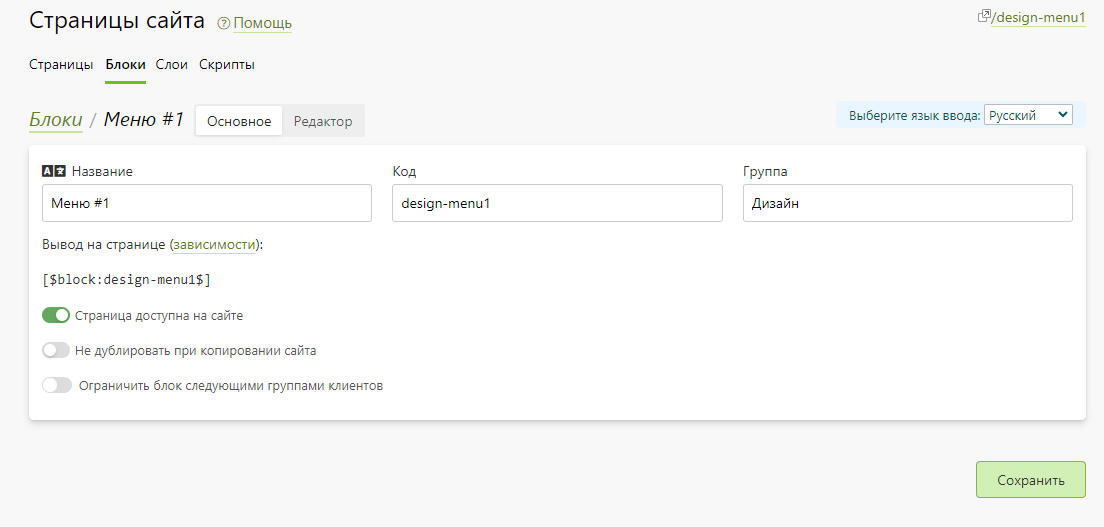
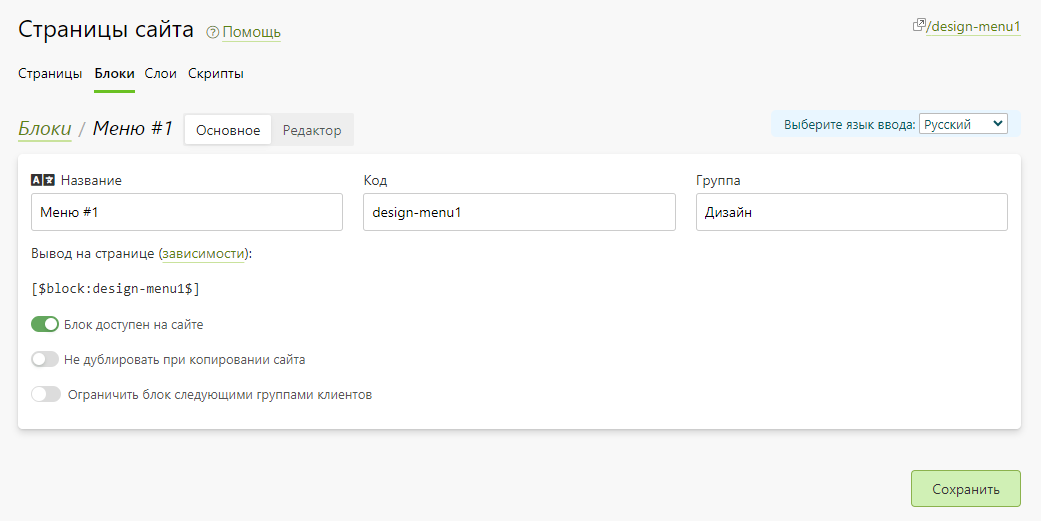
blocks+layers

diff --git a/docs/cms/pages.md b/docs/cms/pages.md
@@ -1,7 +1,15 @@
 # Страницы сайта
 
-## Список страниц
-* 
+* Страница - это страница сайта, доступная по уникальному адресу. Для одной страницы может быть создано несколько локализаций.
+
+* __Содержание__
+    + [Список страниц](/cms/pages?id=Список-страниц)
+    + [Основная информация страницы](/cms/pages?id=Основная-информация-страницы)
+    + [Хлебные крошки](/cms/pages?id=Хлебные-крошки)
+    + [Метаинформация](/cms/pages?id=Метаинформация)
+    + [Редактор страницы](/cms/pages?id=Редактор-страницы) 
+
+### Список страниц
 * В данном разделе представлен список всех страниц сайта, сгруппированных в папки по уникальным адресам.
 * Также в этом разделе можно:
     + Добавить новую страницу.
@@ -11,18 +19,8 @@
     + Удалить выделенные страницы.
 * ![](../_media/cms/pages.png)
 
-## Карточка страницы
-* __Содержание__
-    + [Основная информация](/cms/pages?id=Основная-информация)
-    + [Хлебные крошки](/cms/pages?id=Хлебные-крошки)
-    + [Метаинформация](/cms/pages?id=Метаинформация)
-    + [Редактор страницы](/cms/pages?id=Редактор-страницы) 
-
-### Основная информация
-* Страница - это страница сайта, доступная по уникальному адресу.
-* Для одной страницы может быть создано несколько локализаций.
+### Основная информация страницы
 ![](../_media/cms/page-general.png)
-
 * Ниже перечислены основные параметры страницы.
 * __Название__ - название страницы в панели управления, которое в том числе используется в качестве заголовка `H1`, если его нет в содержимом страницы и не задано поле "Заголовок".
 * __Тип контента__ - тип содержимого страницы, который указывается в ответе сервера в заголовке "content-type".
@@ -56,18 +54,23 @@
 ![](../_media/cms/cms04.png)
 
 ### Редактор страницы
-* Страница формируется из элементов - секций. По умолчанию содержимое задается в виде HTML-разметки, которая также может содержать стили и скрипты.
-* Добавить новый контент или изменить существующий можно во вкладке "Редактор".
+* Страница формируется из элементов - секций. По умолчанию содержимое задается в виде HTML-разметки, которая также может содержать стили и скрипты. Добавить новый контент или изменить существующий можно во вкладке "Редактор".
 ![](../_media/cms/cms03.png)
 * Чтобы добавить новую секцию контента, нужно нажать на `+` и в выпадающем списке выбрать, где он будет расположен.
 ![](../_media/cms/create-elem.png)
 
 ## Блоки
-* Блок - это произвольная HTML-разметка (+ стили + скрипты), которая может быть многократно использована на различных страницах сайта. Использование блоков позволяет минимизировать разметку страниц, делая ее более читабельной и лаконичной. Ниже перечислены основные параметры блока.
 
-## Список блоков
+* Блок - это произвольная HTML-разметка (+ стили + скрипты), которая может быть многократно использована на различных страницах сайта. Использование блоков позволяет минимизировать разметку страниц, делая ее более читабельной и лаконичной. Блок можно локализовать.
+
+* __Содержание__
+    + [Список блоков](/cms/pages?id=Список-блоков) 
+    + [Основная информация блока](/cms/pages?id=Основная-информация-блока)
+    + [Редактор блока](/cms/pages?id=Редактор-блока) 
+
+### Список блоков
 * В данном разделе представлен список всех блоков сайта. Блоки можно фильтровать по назначению (группе) или по поиску.
-* Также в этом разделе можно:
+* В этом разделе можно:
     + Добавить новый блок.
     + Перейти в карточку любого блока.
     + Включить или выключить доступность любого блока на сайте.
@@ -75,35 +78,52 @@
     + Удалить выделенные блоки.
 ![](../_media/cms/ListOfBlocks.png)
 
-### Основная информация
+### Основная информация блока
 ![](../_media/cms/osn_blocks.png)
 * Ниже перечислены основные параметры блока:
 * __Название__ - название блока в панели управления.
 * __Код__ - уникальный идентификатор блока на сайте.
 * __Группа__ - название группы, в которую относиться данный блок. Задание групп для блоков позволяет фильтровать их на странице списка.
 * __Вывод на странице__ - константа, позволяющая выводить на страницу содержимое блока. Через "зависимости" можно посмотреть список страниц, в которых используется данный блок.
-* __Не дублировать при копировании сайта__ - выключить дублирование данной страницы при копировании сайта.
-* __Блок доступен на сайте__ - включение доступности блока на страницах сайта.
-* __Содержимое__ - HTML-разметка блока.
+
+
+* К блоку могут быть применены следующие настройки:
+* __Блок доступен на сайте__ - настройка отображения блока на сайте.
+* __Не дублировать при копировании сайта__ - выключиьт копирование блока при дкблировании сайта.
+* __Ограничить блок следующими группами клиентов__ - позволяет выбрать группы клиентов, которые будут видеть блок. Подробнее о группах можно прочесть в разделе ["Группы"](../customers/groups.md).
+
+### Редактор блока
+* Блоки создаются аналогично страницам. Во вкладке "Редактор" задается HTML-разметка блока, также могут быть использованы стили и скрипты.
+![](../_media/cms/block-editor.png)
 
 
 
-## Карточка слоя
+## Слои
+
+* Слой - это наборы HTML-разметки, которые автоматически добавляются к предзаданным секциям страницы в момент их отрисовки при соответствии адреса страницы заданной в маске слоя. Ниже перечислены основные параметры блока.
+
 * __Содержание__
-    + [Описание](/cms/pages?id=Описание)
-    + [Основная информация](/cms/pages?id=Основная-информация-2)
+    + [Список слоев](/cms/pages?id=Список-слоев)
+    + [Основная информация слоя](/cms/pages?id=Основная-информация-слоя)
     + [Работа с маской](/cms/pages?id=Работа-с-маской)
+    + [Редактор слоя](/cms/pages?id=Редактор-слоя)
 
-### Описание
-* Слой - это наборы HTML-разметки, которые автоматически добавляются к предзаданным секциям страницы в момент их отрисовки при соответствии адреса страницы заданной маске слоя. Ниже перечислены основные параметры блока.
+### Список слоев
+* В данном разделе представлен список всех слоев сайта, которые можно фильтровать либо по группе, либо по строке поискового запроса.
+* Также в этом разделе можно:
+    + Добавить новый слой.
+    + Перейти в карточку любого слоя.
+    + Включить или выключить доступность слоя на сайте.
+    + Удалить выделенные слои.
+* ![](../_media/cms/layers.png)
 
-### Основная информация
+### Основная информация слоя
 * __Название__ - название слоя в панели управления.
 * __Шаблон страницы__ - предзаданный набор компоновки секций страницы.
 * __Маска__ - регулярное выражение, определяющее адрес страницы сайта.
-* __Не дублировать при копировании сайта__ - выключить копирование данного слоя при копировании сайта.
+
 * __Слой доступен на сайте__ - включение доступности слоя на страницах сайта.
-* __Поля разметки__ - HTML-разметка для каждой секции страницы.
+* __Не дублировать при копировании сайта__ - выключить копирование данного слоя при копировании сайта.
 ![](../_media/cms/layer.png)
 
 ### Работа с маской
@@ -128,14 +148,8 @@
    + `url(/news*)` – применение слоя к любым страницам новостей, включая страницу списка новостей.
    + `url(*) [auth]` – применение слоя к любым страницам сайта, но только для авторизованных посетителей.
 
-## Список слоев
-* В данном разделе представлен список всех слоев сайта, которые можно фильтровать либо по группе, либо по строке поискового запроса.
-* Также в этом разделе можно:
-    + Добавить новый слой.
-    + Перейти в карточку любого слоя.
-    + Включить или выключить доступность любого слоя на сайте.
-    + Удалить выделенные слои.
-* ![](../_media/cms/layers.png)
+### Редактор слоя
+![](../_media/cms/layer-editor.png)
 
 ## Скрипты
 * В данном разделе находятся три блока для размещения скриптов:
